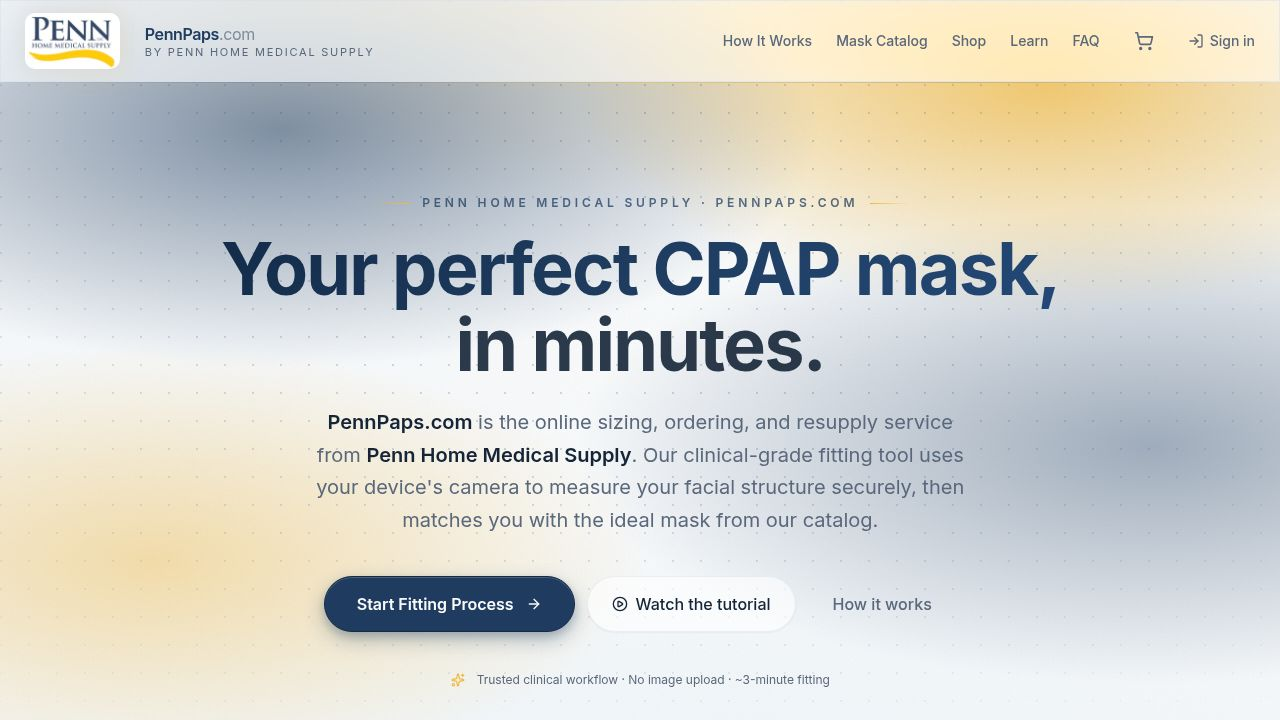
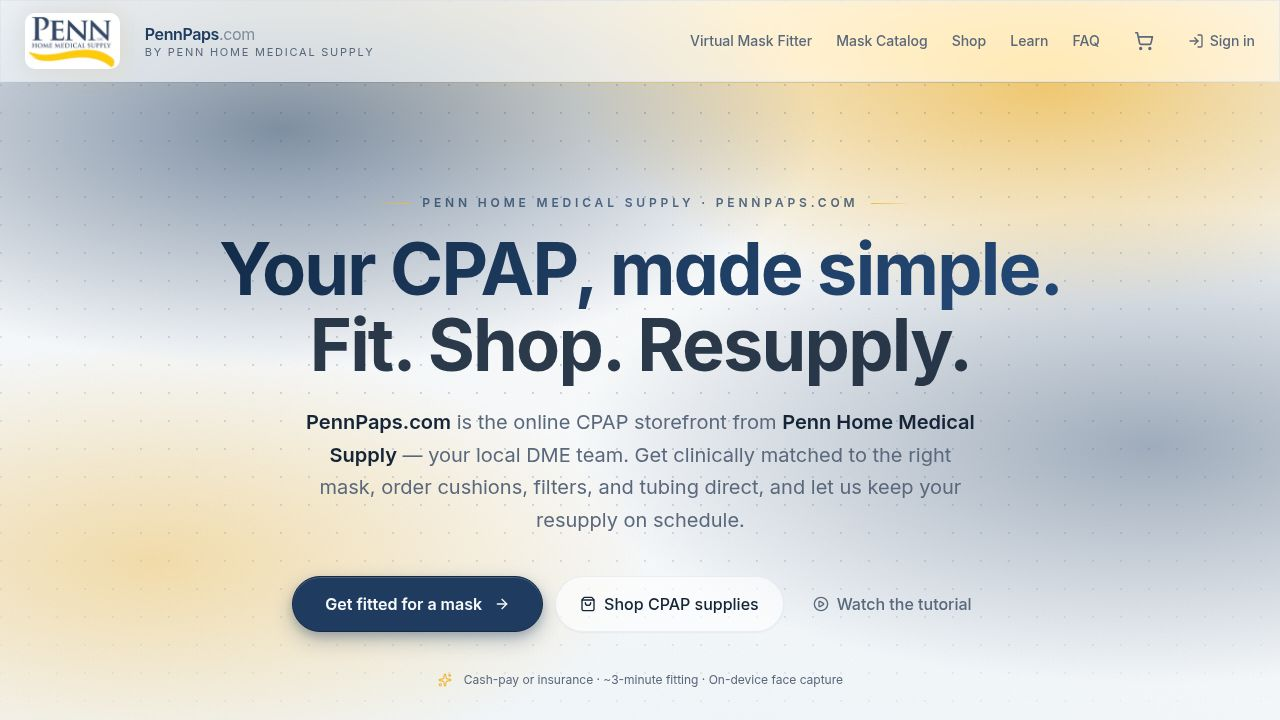
Improve website performance, SEO, and user experience with optimizations
Updates include self-hosting fonts, optimizing images, adding PWA and SEO metadata, and refining the content security policy.

Replit-Commit-Author: Agent
Replit-Commit-Session-Id: 971ca5f3-2c18-4010-967d-e5822388de66
Replit-Commit-Checkpoint-Type: full_checkpoint
Replit-Commit-Event-Id: 2e5485b0-eb22-4a5b-b3e4-5fd054ca390b
Replit-Commit-Screenshot-Url: https://storage.googleapis.com/screenshot-production-us-central1/c4dafc66-8a4b-4fce-b239-519bb86000f4/971ca5f3-2c18-4010-967d-e5822388de66/0fBZLMZ
Replit-Helium-Checkpoint-Created: true

diff --git a/artifacts/cpap-fitter/index.html b/artifacts/cpap-fitter/index.html
@@ -2,7 +2,12 @@
 <html lang="en">
   <head>
     <meta charset="UTF-8" />
-    <meta name="viewport" content="width=device-width, initial-scale=1.0, maximum-scale=1" />
+    <!--
+      Allow user-scalable zoom (no maximum-scale, no user-scalable=no) so
+      low-vision patients can pinch to zoom into product photos, label
+      copy, and form fields. WCAG 2.1 SC 1.4.4 (Resize text).
+    -->
+    <meta name="viewport" content="width=device-width, initial-scale=1.0" />
     <title>PennPaps.com — CPAP Fitter, Shop & Resupply by Penn Home Medical Supply</title>
     <meta name="description" content="PennPaps.com is the online CPAP storefront from Penn Home Medical Supply: get fitted for a mask in minutes, shop cushions, filters, and tubing direct, and let us handle insurance and resupply. Privacy-first, on-device fitting." />
 
@@ -26,22 +31,65 @@
         - Scripts/styles/images: same-origin only (+ inline for Vite's
           dev runtime and Tailwind, +blob/data for the captured image
           and MediaPipe's WASM glue).
+        - Fonts: same-origin only. Inter is self-hosted under /fonts so
+          the page makes zero third-party requests for typography.
         - WASM + AI model: same-origin only — we vendor MediaPipe locally
           (see scripts/setup-mediapipe.mjs) instead of fetching from CDNs.
         - Network calls: same-origin only — no third-party analytics,
           no remote model downloads, no telemetry.
         - Frame ancestors: 'self' so the Replit preview iframe still works
           but external sites cannot frame the app.
+
+      Clerk hosts (auth UI + image avatars + WS sessions) are the only
+      cross-origin allowances. 'unsafe-inline'/'unsafe-eval' on script-src
+      are required by the Clerk SDK and Vite's dev runtime; they cannot
+      currently be removed without breaking auth, so we keep the rest of
+      the policy as tight as possible.
     -->
     <meta
       http-equiv="Content-Security-Policy"
-      content="default-src 'self'; script-src 'self' 'unsafe-inline' 'unsafe-eval' blob: https://*.clerk.accounts.dev https://*.clerk.com https://challenges.cloudflare.com; style-src 'self' 'unsafe-inline' https://fonts.googleapis.com https://*.clerk.accounts.dev https://*.clerk.com; font-src 'self' https://fonts.gstatic.com data:; img-src 'self' data: blob: https://img.clerk.com https://*.clerk.com; media-src 'self' blob:; connect-src 'self' blob: https://*.clerk.accounts.dev https://*.clerk.com wss://*.clerk.accounts.dev; worker-src 'self' blob:; frame-src 'self' https://*.clerk.accounts.dev https://*.clerk.com https://challenges.cloudflare.com; object-src 'none'; base-uri 'self';"
+      content="default-src 'self'; script-src 'self' 'unsafe-inline' 'unsafe-eval' blob: https://*.clerk.accounts.dev https://*.clerk.com https://challenges.cloudflare.com; style-src 'self' 'unsafe-inline' https://*.clerk.accounts.dev https://*.clerk.com; font-src 'self' data:; img-src 'self' data: blob: https://img.clerk.com https://*.clerk.com; media-src 'self' blob:; connect-src 'self' blob: https://*.clerk.accounts.dev https://*.clerk.com wss://*.clerk.accounts.dev; worker-src 'self' blob:; frame-src 'self' https://*.clerk.accounts.dev https://*.clerk.com https://challenges.cloudflare.com; object-src 'none'; base-uri 'self';"
     />
 
+    <!-- Favicons + PWA install metadata -->
     <link rel="icon" type="image/svg+xml" href="/favicon.svg" />
-    <link rel="preconnect" href="https://fonts.googleapis.com">
-    <link rel="preconnect" href="https://fonts.gstatic.com" crossorigin>
-    <link href="https://fonts.googleapis.com/css2?family=Inter:wght@400;500;600;700&display=swap" rel="stylesheet">
+    <link rel="icon" type="image/png" sizes="32x32" href="/favicon-32.png" />
+    <link rel="apple-touch-icon" sizes="180x180" href="/apple-touch-icon.png" />
+    <link rel="manifest" href="/manifest.webmanifest" />
+    <meta name="theme-color" content="#1F3A5C" />
+    <meta name="apple-mobile-web-app-title" content="PennPaps" />
+
+    <!-- Preload the most-used Inter weights so the first paint upgrades from
+         the system fallback to Inter quickly without an extra round-trip. -->
+    <link rel="preload" href="/fonts/Inter-Regular.woff2" as="font" type="font/woff2" crossorigin />
+    <link rel="preload" href="/fonts/Inter-SemiBold.woff2" as="font" type="font/woff2" crossorigin />
+
+    <!--
+      JSON-LD structured data. Tells search engines that pennpaps.com is the
+      online storefront for a real local medical-equipment supplier in PA, so
+      the brand can show up in Google's knowledge panels and local pack.
+    -->
+    <script type="application/ld+json">
+    {
+      "@context": "https://schema.org",
+      "@type": "MedicalBusiness",
+      "name": "Penn Home Medical Supply",
+      "alternateName": "PennPaps",
+      "url": "https://pennpaps.com",
+      "logo": "https://pennpaps.com/logo.svg",
+      "image": "https://pennpaps.com/opengraph.jpg",
+      "description": "Online CPAP storefront from Penn Home Medical Supply. Get fitted for a mask in minutes, shop cushions, filters, tubing, and headgear, and stay on schedule with resupply.",
+      "areaServed": "US",
+      "medicalSpecialty": "Pulmonary",
+      "priceRange": "$$",
+      "paymentAccepted": "Cash, Credit Card, Insurance",
+      "potentialAction": {
+        "@type": "ReserveAction",
+        "name": "Start virtual mask fitting",
+        "target": "https://pennpaps.com/capture"
+      }
+    }
+    </script>
   </head>
   <body>
     <div id="root"></div>

diff --git a/artifacts/cpap-fitter/src/index.css b/artifacts/cpap-fitter/src/index.css
@@ -3,6 +3,44 @@
 @import "tw-animate-css";
 @plugin "@tailwindcss/typography";
 
+/*
+ * Self-hosted Inter (rsms/inter v4, SIL Open Font License). Hosting the
+ * font files locally — instead of pulling from fonts.googleapis.com —
+ * keeps the storefront fully same-origin (matching the privacy posture
+ * we already enforce in the page CSP) and avoids a third-party network
+ * call on first paint. `font-display: swap` mirrors what the prior
+ * Google Fonts URL did, so initial render still uses the system fallback
+ * stack instead of blocking on the woff2 download.
+ */
+@font-face {
+  font-family: "Inter";
+  font-style: normal;
+  font-weight: 400;
+  font-display: swap;
+  src: url("/fonts/Inter-Regular.woff2") format("woff2");
+}
+@font-face {
+  font-family: "Inter";
+  font-style: normal;
+  font-weight: 500;
+  font-display: swap;
+  src: url("/fonts/Inter-Medium.woff2") format("woff2");
+}
+@font-face {
+  font-family: "Inter";
+  font-style: normal;
+  font-weight: 600;
+  font-display: swap;
+  src: url("/fonts/Inter-SemiBold.woff2") format("woff2");
+}
+@font-face {
+  font-family: "Inter";
+  font-style: normal;
+  font-weight: 700;
+  font-display: swap;
+  src: url("/fonts/Inter-Bold.woff2") format("woff2");
+}
+
 @theme inline {
   --color-background: hsl(var(--background));
   --color-foreground: hsl(var(--foreground));

diff --git a/artifacts/cpap-fitter/src/pages/account.tsx b/artifacts/cpap-fitter/src/pages/account.tsx
@@ -255,6 +255,7 @@ function ProfileSection({
             placeholder="Jane Doe"
             className="form-input"
             data-testid="account-name"
+            autoComplete="name"
           />
         </Field>
 
@@ -271,6 +272,7 @@ function ProfileSection({
                 placeholder="123 Main St"
                 className="form-input"
                 data-testid="account-addr-line1"
+                autoComplete="address-line1"
               />
             </Field>
             <Field label="Apt, suite, etc. (optional)">
@@ -281,6 +283,7 @@ function ProfileSection({
                 placeholder="Apt 4B"
                 className="form-input"
                 data-testid="account-addr-line2"
+                autoComplete="address-line2"
               />
             </Field>
             <div className="grid grid-cols-1 sm:grid-cols-3 gap-3">
@@ -291,6 +294,7 @@ function ProfileSection({
                   onChange={(e) => setAddr({ ...addr, city: e.target.value })}
                   className="form-input"
                   data-testid="account-addr-city"
+                  autoComplete="address-level2"
                 />
               </Field>
               <Field label="State">
@@ -307,6 +311,7 @@ function ProfileSection({
                   placeholder="CA"
                   className="form-input"
                   data-testid="account-addr-state"
+                  autoComplete="address-level1"
                 />
               </Field>
               <Field label="ZIP">
@@ -319,6 +324,7 @@ function ProfileSection({
                   inputMode="numeric"
                   className="form-input"
                   data-testid="account-addr-zip"
+                  autoComplete="postal-code"
                 />
               </Field>
             </div>

diff --git a/artifacts/resupply-api/src/lib/stripe/preview-catalog.ts b/artifacts/resupply-api/src/lib/stripe/preview-catalog.ts
@@ -101,7 +101,7 @@ const SEED: PreviewSeed[] = [
     unitAmountCents: 3500,
     manufacturer: "ResMed",
     modelNumber: "63551",
-    imageUrl: "/products/cushion-n20.png",
+    imageUrl: "/products/cushion-n20.webp",
   },
   {
     sku: "cushion-nasal-pillows-pair",
@@ -183,7 +183,7 @@ const SEED: PreviewSeed[] = [
     unitAmountCents: 1200,
     manufacturer: "ResMed",
     modelNumber: "36830",
-    imageUrl: "/products/filter-reusable.png",
+    imageUrl: "/products/filter-reusable.webp",
   },
 
   // ── Headgear & straps ────────────────────────────────────────────
@@ -256,7 +256,7 @@ const SEED: PreviewSeed[] = [
     unitAmountCents: 8900,
     manufacturer: "PennPaps Curated Kit",
     modelNumber: "BUNDLE-Q",
-    imageUrl: "/products/cushion-n20.png",
+    imageUrl: "/products/cushion-n20.webp",
     bundleContents: [
       "1× ResMed AirFit N20 cushion · medium (#63551)",
       "1× ResMed SlimLine tubing — 6ft (#36995)",

diff --git a/scripts/src/seed-stripe-products.ts b/scripts/src/seed-stripe-products.ts
@@ -111,7 +111,7 @@ const PRODUCTS: SeedProduct[] = [
     unitAmountCents: 3500,
     manufacturer: "ResMed",
     modelNumber: "63551",
-    imagePath: "/products/cushion-n20.png",
+    imagePath: "/products/cushion-n20.webp",
   },
   {
     sku: "cushion-nasal-pillows-pair",
@@ -193,7 +193,7 @@ const PRODUCTS: SeedProduct[] = [
     unitAmountCents: 1200,
     manufacturer: "ResMed",
     modelNumber: "36830",
-    imagePath: "/products/filter-reusable.png",
+    imagePath: "/products/filter-reusable.webp",
   },
 
   // ── Headgear & straps ────────────────────────────────────────────
@@ -266,7 +266,7 @@ const PRODUCTS: SeedProduct[] = [
     unitAmountCents: 8900,
     manufacturer: "PennPaps Curated Kit",
     modelNumber: "BUNDLE-Q",
-    imagePath: "/products/cushion-n20.png",
+    imagePath: "/products/cushion-n20.webp",
     bundleContents: [
       "1× ResMed AirFit N20 cushion · medium (#63551)",
       "1× ResMed SlimLine tubing — 6ft (#36995)",

diff --git a/artifacts/cpap-fitter/src/components/layout.tsx b/artifacts/cpap-fitter/src/components/layout.tsx
@@ -76,7 +76,7 @@ export function Layout({ children }: { children: React.ReactNode }) {
       <ScrollToTop />
       <header className="sticky top-0 z-50 w-full">
         <div className="glass-panel border-x-0 border-t-0 border-b border-border/40">
-          <div className="container mx-auto flex h-20 items-center justify-between px-4 md:px-6">
+          <div className="container mx-auto flex h-16 md:h-20 items-center justify-between px-4 md:px-6">
             <Link href="/" className="flex items-center gap-3 transition-opacity hover:opacity-80">
               <div className="relative">
                 <div className="absolute -inset-1 rounded-xl bg-gradient-to-br from-[hsl(var(--penn-navy)/0.10)] to-[hsl(var(--penn-gold)/0.20)] blur-md" aria-hidden="true" />

diff --git a/artifacts/cpap-fitter/src/pages/order.tsx b/artifacts/cpap-fitter/src/pages/order.tsx
@@ -339,7 +339,7 @@ export function Order() {
                 onValueChange={(v) => setValue("shippingAddress.state", v, { shouldValidate: true })}
               >
                 <SelectTrigger data-testid="select-state">
-                  <SelectValue placeholder="--" />
+                  <SelectValue placeholder="Select state" />
                 </SelectTrigger>
                 <SelectContent>
                   {US_STATES.map((s) => (

diff --git a/replit.md b/replit.md
@@ -68,7 +68,13 @@ The user-facing copy treats PennPaps as a full storefront, not just a mask fitte
 
 ### Mobile Responsiveness
 
-Most patients reach the store from a phone, so every customer-facing surface is verified at 320–390px widths. Notable patterns: `layout.tsx` provides a sticky header (`h-20`) with a hamburger drawer below `md` and includes the cart icon + user menu inline on mobile; long-form pages (e.g. `/learn/replacement-schedule`) ship a desktop `<table>` and a parallel mobile `<dl>` card list rather than horizontally scrolling tables; the home hero scales `text-4xl → sm:text-5xl → md:text-6xl → lg:text-7xl` and decorative eyebrow rails are hidden below `sm` to keep the four-line headline + CTAs above the fold on iPhone-class screens. Customer-facing CTAs use full-width tap targets (≥48px) on mobile via the standard `Button size="lg"` class. Admin pages intentionally keep their `overflow-x-auto` data tables — they are internal-only.
+Most patients reach the store from a phone, so every customer-facing surface is verified at 320–390px widths. Notable patterns: `layout.tsx` provides a sticky header (`h-16 md:h-20`) with a hamburger drawer below `md` and includes the cart icon + user menu inline on mobile; long-form pages (e.g. `/learn/replacement-schedule`) ship a desktop `<table>` and a parallel mobile `<dl>` card list rather than horizontally scrolling tables; the home hero scales `text-4xl → sm:text-5xl → md:text-6xl → lg:text-7xl` and decorative eyebrow rails are hidden below `sm` to keep the four-line headline + CTAs above the fold on iPhone-class screens. Customer-facing CTAs use full-width tap targets (≥48px) on mobile via the standard `Button size="lg"` class. Admin pages intentionally keep their `overflow-x-auto` data tables — they are internal-only. The viewport meta tag deliberately omits `maximum-scale` / `user-scalable=no` so low-vision patients can pinch-zoom (WCAG 2.1 SC 1.4.4).
+
+### Site Quality (SEO, PWA, Performance)
+
+The cpap-fitter `public/` directory ships the production-grade asset bundle expected of a real storefront: `robots.txt` (allows public pages, disallows admin/auth/funnel paths, points at the sitemap), `sitemap.xml` (canonical pages with `https://pennpaps.com` URLs and per-section change frequencies), `manifest.webmanifest` + brand PNG icons (`apple-touch-icon.png` 180×180, `icon-192.png`, `icon-512.png`, `favicon-32.png`) so the site installs as a PWA, and a JSON-LD `MedicalBusiness` block in `index.html <head>` so search engines understand PennPaps is the online storefront for Penn Home Medical Supply. Inter is **self-hosted** under `public/fonts/` (rsms/inter v4 woff2, weights 400/500/600/700, ~115KB each) with `@font-face` declarations in `index.css` and `font-display: swap`; the most-used weights (Regular, SemiBold) are `<link rel="preload">`-ed. There are no third-party network requests for typography. Heaviest product images are stored as 800×800 WebP under `public/products/` (~22–58KB each); both `scripts/seed-stripe-products.ts` and `resupply-api/lib/stripe/preview-catalog.ts` reference the canonical filenames. Account address fields use proper `autoComplete` tokens (`name`, `address-line1/2`, `address-level1/2`, `postal-code`) so iOS/Android contact autofill works.
+
+The page-level CSP (`<meta http-equiv>` in `index.html`) is same-origin for everything except the Clerk auth domains; fonts are now `font-src 'self' data:` (no Google hosts). `'unsafe-inline'`/`'unsafe-eval'` remain on `script-src` because the Clerk SDK and Vite both require them — documented inline. Note: meta-tag CSP cannot reliably enforce `frame-ancestors`; if clickjacking protection becomes a hard requirement, move CSP to an HTTP response header on the production deploy.
 
 ### Cash-Pay Shop
 